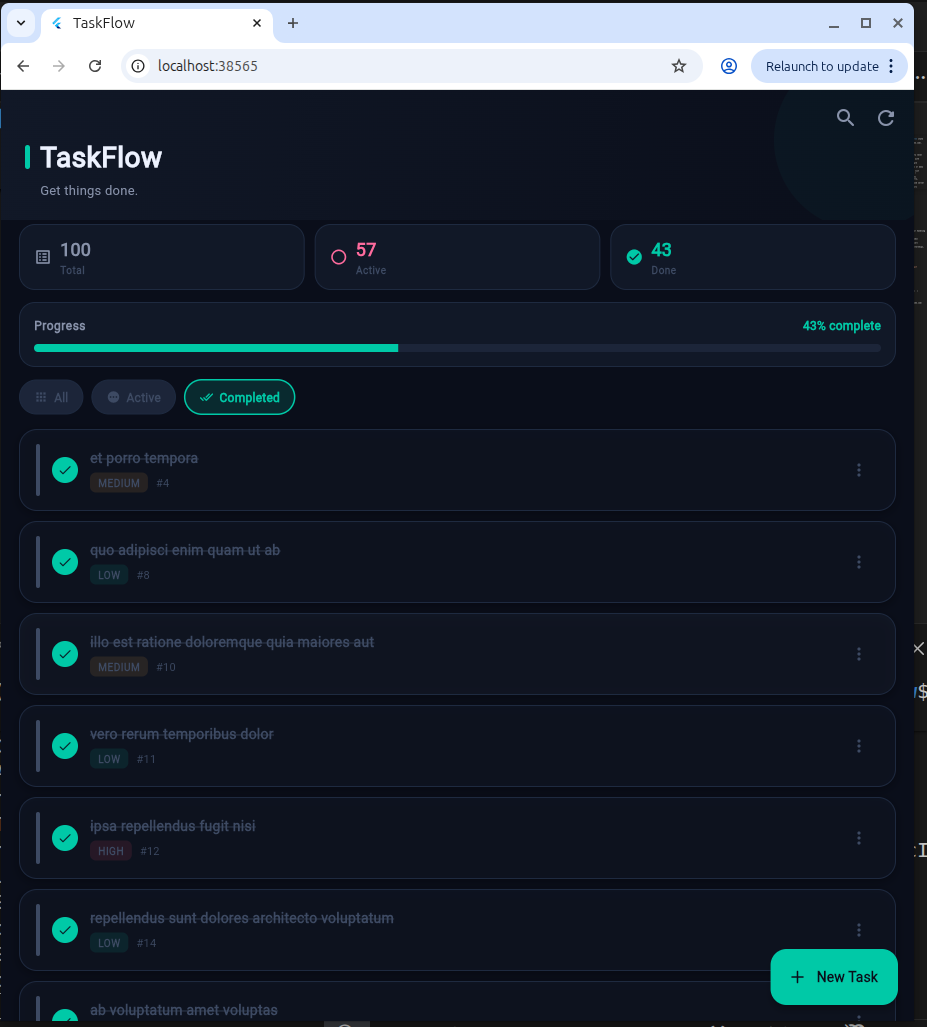
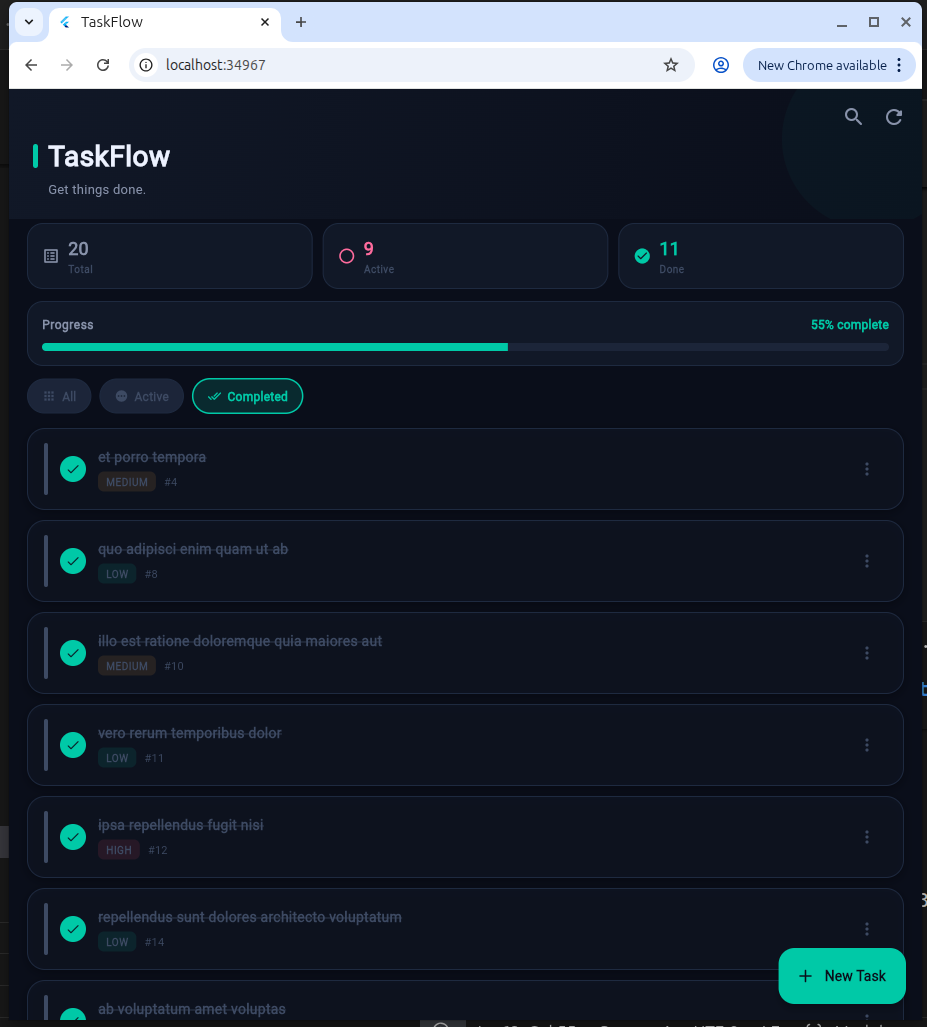
edit readme file

diff --git a/README.md b/README.md
@@ -64,8 +64,13 @@ flutter run
 
 ## 📸 Screenshots
 
+## Home Screen
 ![alt text](image.png) 
-![alt text](image-1.png) 
+
+## Add Task 
+ ![alt text](image-1.png) 
+
+## Edit Task 
 ![alt text](image-2.png) 
 
 ---